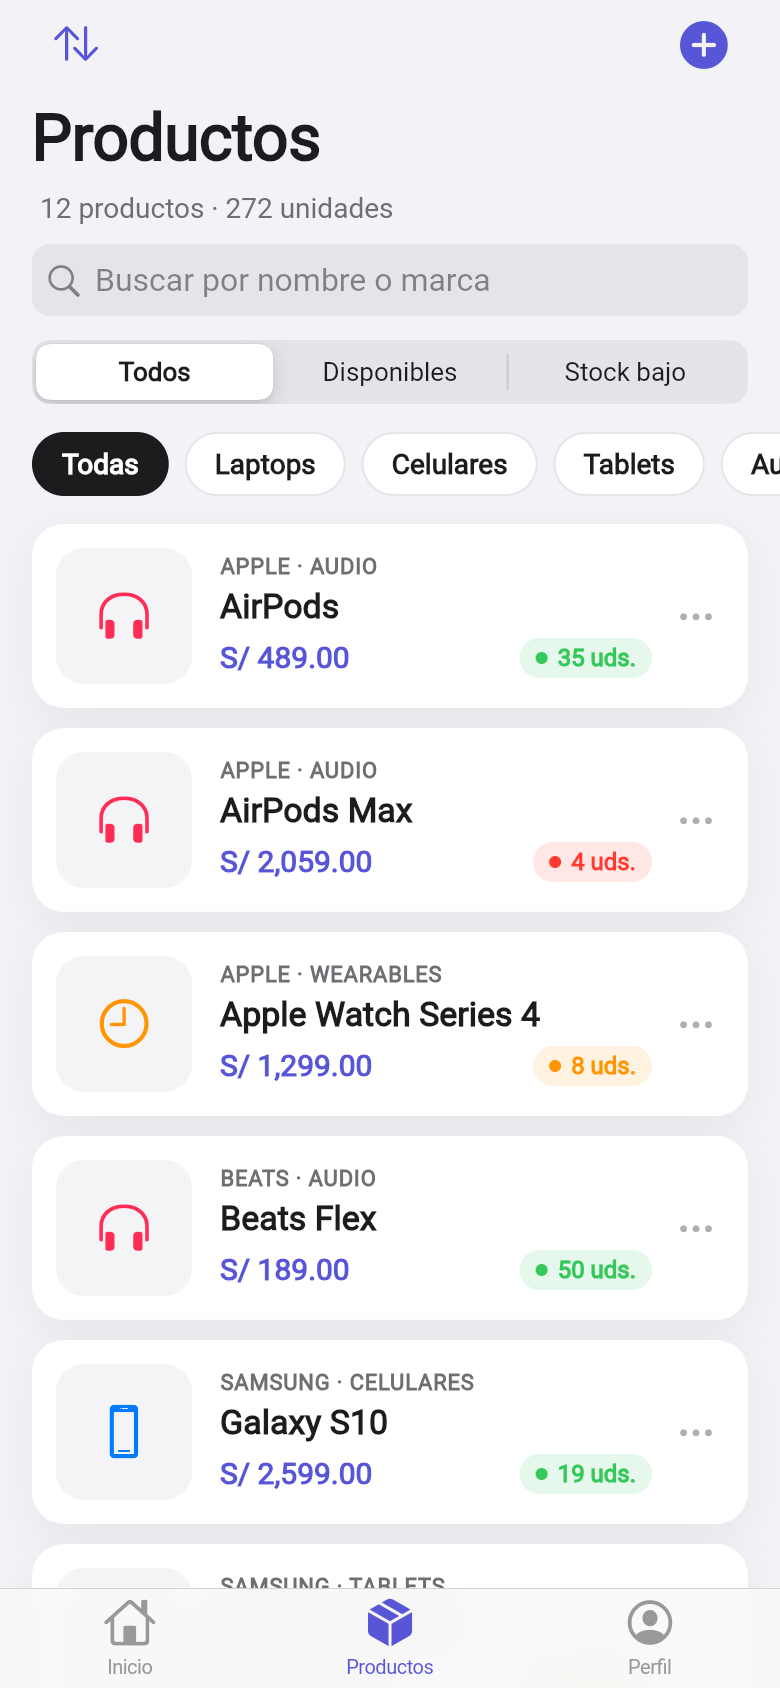
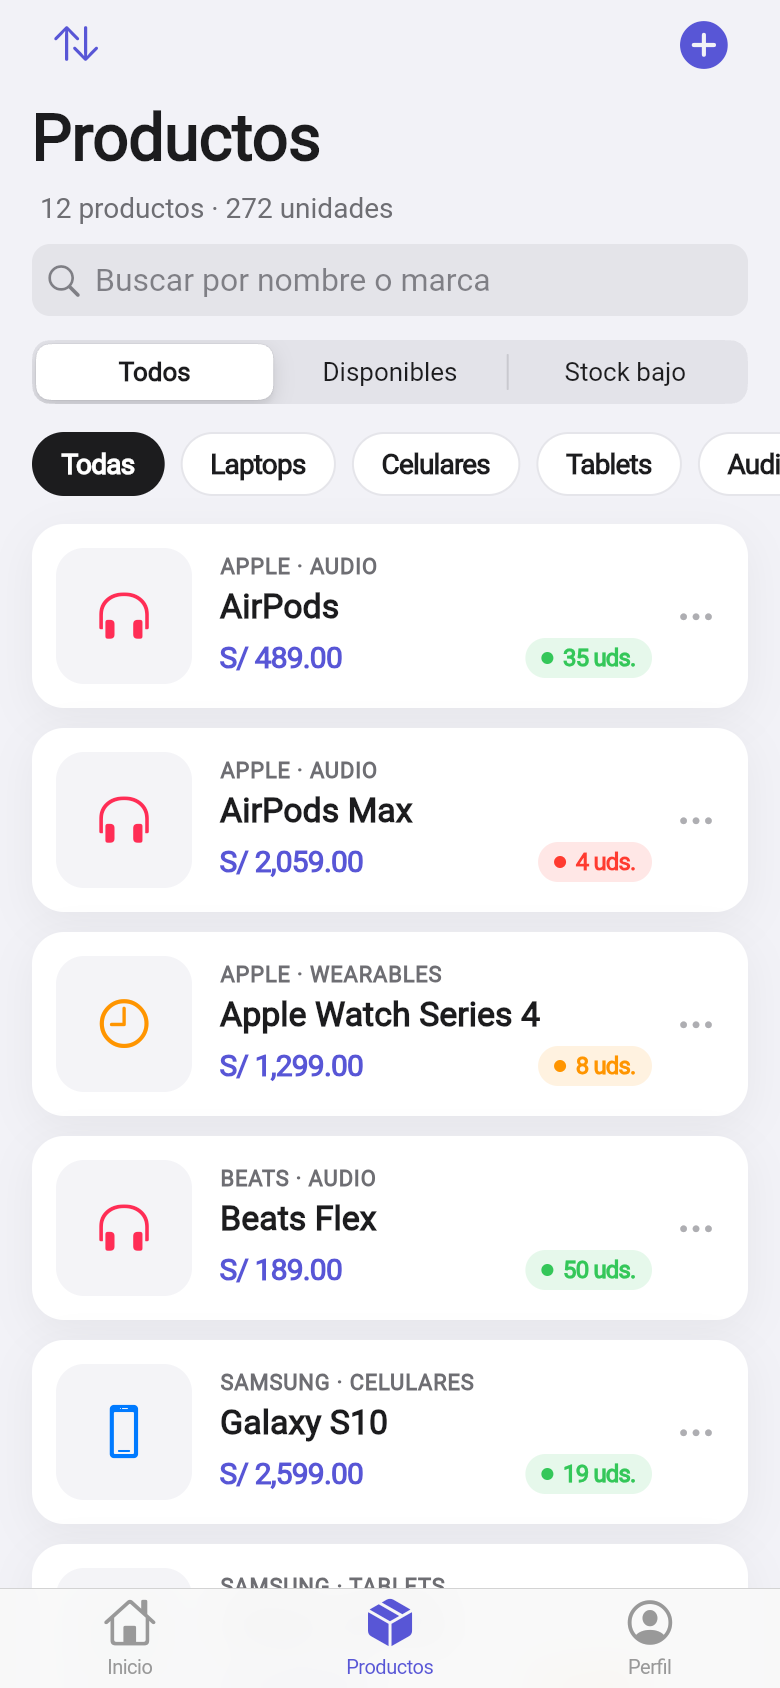
Botones táctiles con CupertinoButton en tarjetas, categorías, foto y stock

diff --git a/dartpad/main.dart b/dartpad/main.dart
@@ -894,9 +894,11 @@ class ProductoTile extends StatelessWidget {
 
   @override
   Widget build(BuildContext context) {
-    return GestureDetector(
-      onTap: onTap,
-      behavior: HitTestBehavior.opaque,
+    // CupertinoButton da el efecto de "presionado" de iOS
+    return CupertinoButton(
+      padding: EdgeInsets.zero,
+      pressedOpacity: 0.7,
+      onPressed: onTap,
       child: Container(
         padding: const EdgeInsets.fromLTRB(12, 12, 4, 12),
         decoration: BoxDecoration(
@@ -1781,8 +1783,9 @@ class _Pildora extends StatelessWidget {
 
   @override
   Widget build(BuildContext context) {
-    return GestureDetector(
-      onTap: onTap,
+    return CupertinoButton(
+      padding: EdgeInsets.zero,
+      onPressed: onTap,
       child: AnimatedContainer(
         duration: const Duration(milliseconds: 200),
         padding: const EdgeInsets.symmetric(horizontal: 14),
@@ -2481,8 +2484,10 @@ class _DestacadoCard extends StatelessWidget {
 
   @override
   Widget build(BuildContext context) {
-    return GestureDetector(
-      onTap: onTap,
+    return CupertinoButton(
+      padding: EdgeInsets.zero,
+      pressedOpacity: 0.7,
+      onPressed: onTap,
       child: Container(
         width: 150,
         padding: const EdgeInsets.all(10),
@@ -3276,8 +3281,10 @@ class _RegistrarProductoScreenState extends State<RegistrarProductoScreen> {
       padding: const EdgeInsets.only(top: 20),
       child: Column(
         children: [
-          GestureDetector(
-            onTap: _opcionesFoto,
+          CupertinoButton(
+            padding: EdgeInsets.zero,
+            pressedOpacity: 0.7,
+            onPressed: _opcionesFoto,
             child: Stack(
               clipBehavior: Clip.none,
               children: [
@@ -3368,11 +3375,12 @@ class _BotonPaso extends StatelessWidget {
 
   @override
   Widget build(BuildContext context) {
-    return GestureDetector(
-      onTap: onTap,
+    return CupertinoButton(
+      padding: EdgeInsets.zero,
+      onPressed: onTap,
       child: Container(
-        width: 32,
-        height: 32,
+        width: 34,
+        height: 34,
         decoration: BoxDecoration(
           color: AppColors.fill,
           borderRadius: BorderRadius.circular(9),
@@ -3450,8 +3458,9 @@ class _GaleriaSheetState extends State<_GaleriaSheet> {
                 separatorBuilder: (_, __) => const SizedBox(width: 8),
                 itemBuilder: (_, i) {
                   final activa = cats[i] == _filtro;
-                  return GestureDetector(
-                    onTap: () => setState(() => _filtro = cats[i]),
+                  return CupertinoButton(
+                    padding: EdgeInsets.zero,
+                    onPressed: () => setState(() => _filtro = cats[i]),
                     child: Container(
                       padding: const EdgeInsets.symmetric(horizontal: 14),
                       alignment: Alignment.center,
@@ -3484,9 +3493,13 @@ class _GaleriaSheetState extends State<_GaleriaSheet> {
                 itemCount: fotos.length,
                 itemBuilder: (_, i) {
                   final foto = fotos[i];
-                  return GestureDetector(
-                    onTap: () => Navigator.pop(context, foto),
+                  return CupertinoButton(
+                    padding: EdgeInsets.zero,
+                    pressedOpacity: 0.7,
+                    onPressed: () => Navigator.pop(context, foto),
                     child: Container(
+                      width: double.infinity,
+                      height: double.infinity,
                       padding: const EdgeInsets.all(8),
                       decoration: BoxDecoration(
                         color: AppColors.card,

diff --git a/lib/screens/registrar_producto_screen.dart b/lib/screens/registrar_producto_screen.dart
@@ -476,8 +476,10 @@ class _RegistrarProductoScreenState extends State<RegistrarProductoScreen> {
       padding: const EdgeInsets.only(top: 20),
       child: Column(
         children: [
-          GestureDetector(
-            onTap: _opcionesFoto,
+          CupertinoButton(
+            padding: EdgeInsets.zero,
+            pressedOpacity: 0.7,
+            onPressed: _opcionesFoto,
             child: Stack(
               clipBehavior: Clip.none,
               children: [
@@ -568,11 +570,12 @@ class _BotonPaso extends StatelessWidget {
 
   @override
   Widget build(BuildContext context) {
-    return GestureDetector(
-      onTap: onTap,
+    return CupertinoButton(
+      padding: EdgeInsets.zero,
+      onPressed: onTap,
       child: Container(
-        width: 32,
-        height: 32,
+        width: 34,
+        height: 34,
         decoration: BoxDecoration(
           color: AppColors.fill,
           borderRadius: BorderRadius.circular(9),
@@ -650,8 +653,9 @@ class _GaleriaSheetState extends State<_GaleriaSheet> {
                 separatorBuilder: (_, __) => const SizedBox(width: 8),
                 itemBuilder: (_, i) {
                   final activa = cats[i] == _filtro;
-                  return GestureDetector(
-                    onTap: () => setState(() => _filtro = cats[i]),
+                  return CupertinoButton(
+                    padding: EdgeInsets.zero,
+                    onPressed: () => setState(() => _filtro = cats[i]),
                     child: Container(
                       padding: const EdgeInsets.symmetric(horizontal: 14),
                       alignment: Alignment.center,
@@ -684,9 +688,13 @@ class _GaleriaSheetState extends State<_GaleriaSheet> {
                 itemCount: fotos.length,
                 itemBuilder: (_, i) {
                   final foto = fotos[i];
-                  return GestureDetector(
-                    onTap: () => Navigator.pop(context, foto),
+                  return CupertinoButton(
+                    padding: EdgeInsets.zero,
+                    pressedOpacity: 0.7,
+                    onPressed: () => Navigator.pop(context, foto),
                     child: Container(
+                      width: double.infinity,
+                      height: double.infinity,
                       padding: const EdgeInsets.all(8),
                       decoration: BoxDecoration(
                         color: AppColors.card,

diff --git a/lib/widgets/producto_tile.dart b/lib/widgets/producto_tile.dart
@@ -23,9 +23,11 @@ class ProductoTile extends StatelessWidget {
 
   @override
   Widget build(BuildContext context) {
-    return GestureDetector(
-      onTap: onTap,
-      behavior: HitTestBehavior.opaque,
+    // CupertinoButton da el efecto de "presionado" de iOS
+    return CupertinoButton(
+      padding: EdgeInsets.zero,
+      pressedOpacity: 0.7,
+      onPressed: onTap,
       child: Container(
         padding: const EdgeInsets.fromLTRB(12, 12, 4, 12),
         decoration: BoxDecoration(

diff --git a/lib/screens/listar_productos_screen.dart b/lib/screens/listar_productos_screen.dart
@@ -313,8 +313,9 @@ class _Pildora extends StatelessWidget {
 
   @override
   Widget build(BuildContext context) {
-    return GestureDetector(
-      onTap: onTap,
+    return CupertinoButton(
+      padding: EdgeInsets.zero,
+      onPressed: onTap,
       child: AnimatedContainer(
         duration: const Duration(milliseconds: 200),
         padding: const EdgeInsets.symmetric(horizontal: 14),

diff --git a/lib/screens/menu_screen.dart b/lib/screens/menu_screen.dart
@@ -378,8 +378,10 @@ class _DestacadoCard extends StatelessWidget {
 
   @override
   Widget build(BuildContext context) {
-    return GestureDetector(
-      onTap: onTap,
+    return CupertinoButton(
+      padding: EdgeInsets.zero,
+      pressedOpacity: 0.7,
+      onPressed: onTap,
       child: Container(
         width: 150,
         padding: const EdgeInsets.all(10),
